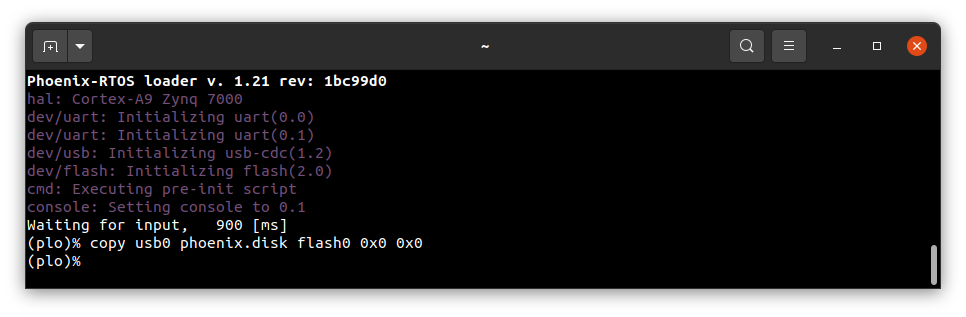
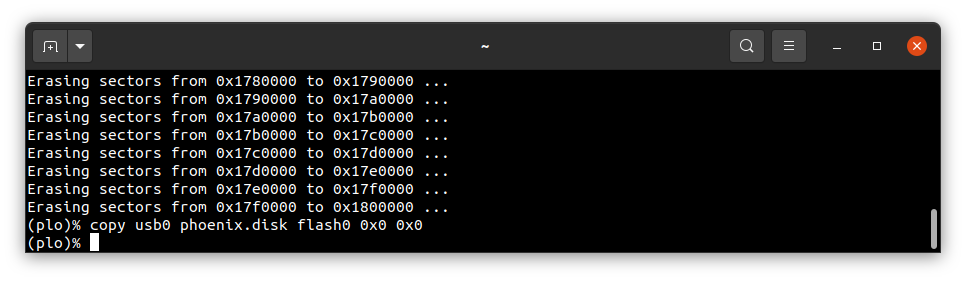
quickstart: update zynq7000-zedboard guide
JIRA: CI-295

Changed region(s): [[0.0, 0.0569, 0.9938, 0.9395], [0.9627, 0.7402, 0.9938, 0.7687], [0.4969, 0.1423, 0.528, 0.1708]]

diff --git a/quickstart/armv7a9-zynq7000-zedboard.md b/quickstart/armv7a9-zynq7000-zedboard.md
@@ -1,23 +1,46 @@
 # Running system on `armv7a9-zynq7000-zedboard` (Xilinx Zynq-7000, Zedboard development board)
 
 These instructions describe how to run a Phoenix-RTOS system image for `armv7a9-zynq7000-zedboard` target architecture.
-Note that, the build artifacts, including the system image, should be first provided in the `_boot` directory. If you haven't run the `build.sh` script yet, run it for `armv7a9-zynq7000-zedboard` target.
+Note that, the build artifacts, including the system image, should be first provided in the `_boot` directory.
+If you haven't run the `build.sh` script yet, run it for `armv7a9-zynq7000-zedboard` target.
 
 See [how to build the Phoenix-RTOS system image](../building/README.md).
 
 ## Preparing the board
 
-- Firstly, you should copy the disk image `phoenix-armv7a9-zynq7000-zedboard.disk` from the `_boot` directory to the SD card and rename it to `BOOT.bin`.
+Preparing the board depends on how the plo is loaded into RAM, this quickstart describes 2 approaches.
+Loading from SD card and from NOR flash, depending on your needs use one of them.
+For example if you are flashing Phoenix-RTOS for a first time, or you want to load a plo from the current system image.
+Otherwise, you can simply use plo from the already flashed image.
+
+### Loading plo from SD card
+
+- Firstly, you should copy the disk image `phoenix.disk`
+ from the `_boot/armv7a9-zynq7000-zedboard` directory to the SD card and rename it to `BOOT.bin`.
 
 - Then, insert the SD card into the board.
 
-- To allow booting from SD card, set the jumpers to the following configuration:
+- To allow booting from SD card, set the jumpers to
+ the following configuration (`JP11`: `110`, `JP10`: `011`, `JP9`: `011`, `JP8`: `110`, `JP7`: `110`):
 
   <img src="_images/zynq7000-sd-boot-mode.jpg" width="400px">
 
-- After that, to provide a power supply for the board, you should connect AC Adapter to the DC socket on the board. For now, leave the `SW8` switch in the `OFF` position.
+### Loading plo from NOR flash
 
-- To communicate with the board you will need to connect the USB cable to the `UART` port (`J14`). The onboard UART-USB converter is used here.
+**This version is possible only if you have already flashed Phoenix-RTOS system image to this board before!**
+
+- To allow loading from NOR flash,
+set the jumpers to the following configuration (`JP11`: `110`, `JP10`: `011`, `JP9`: `110`, `JP8`: `110`, `JP7`: `110`):
+
+  <img src="_images/zynq7000-qspi-boot-mode.jpg" width="400px">
+
+### Loading plo - common steps
+
+- To provide a power supply for the board, you should connect AC Adapter to the DC socket on the board.
+For now, leave the `SW8` switch in the `OFF` position.
+
+- To communicate with the board you will need to connect the USB cable to the `UART` port (`J14`).
+The onboard UART-USB converter is used here.
 
 - You should also connect another micro USB cable to the `USB OTG` port (`J13`).
 
@@ -29,7 +52,7 @@ See [how to build the Phoenix-RTOS system image](../building/README.md).
 
 - Now you should verify, what USB device on your host-pc is connected with the `UART` (console). To check that run:
 
-  ```
+  ```bash
   ls -l /dev/serial/by-id
   ```
 
@@ -37,18 +60,25 @@ See [how to build the Phoenix-RTOS system image](../building/README.md).
 
   If your output is like in the screenshot above, the console (`UART` in the evaluation board) is on the `ACM0` port.
 
-- When the board is connected to your host-pc, open serial port in terminal using picocom and type the console port (in this case ACM0)
+- When the board is connected to your host-pc,
+ open serial port in terminal using picocom and type the console port (in this case ACM0)
 
-  ```
+  ```bash
   picocom -b 115200 --imap lfcrlf /dev/ttyACM0
   ```
 
   <details>
-  <summary>How to get picocom (Ubuntu 20.04)</summary>
+  <summary>How to get picocom and run it without privileges (Ubuntu)</summary>
 
-  ```
+  ```bash
   sudo apt-get update && \
   sudo apt-get install picocom
+  ```
+
+  To use picocom without sudo privileges run this command and then restart:
+
+  ```bash
+  sudo usermod -a -G tty <yourname>
   ```
 
   </details>
@@ -58,48 +88,72 @@ You can leave the terminal with the serial port open, and follow the next steps.
 
 ## Flashing the Phoenix-RTOS system image
 
-The process comes down to a few steps, described below.
+At first before any flashing, you need to enter Phoenix-RTOS loader (plo), which should have been already loaded.
 
-### Uploading a Phoenix-RTOS loader (plo) for the first time
+If there wasn't an older system image in the NOR flash the following output should appear:
 
-The Phoenix-RTOS loader is uploaded to the SD card. When the board is powered on, the following output will appear on the serial port:
+<img src="_images/zynq7000-sd-plo.png" width="700px">
 
-<img src="_images/zynq7000-ram-start.png" width="700px">
+If you don't see it, please press the `PS-RST` button (`BTN7`) to restart the chip.
 
-If you don't see it, please press the `PS-RST` button (`BTN7`), to restart the chip and print initialization logs.
-
-As you can see, plo (Phoenix-RTOS loader) is launched. You can press `enter` to see the prompt.
-
-If You need, You can run Phoenix-RTOS from RAM memory using `go!` command here, but if You want to flash the system image please follow the next steps.
-
-### Entering a Phoenix-RTOS loader (plo) when a system image has been already flashed
-
-If You are flashing the board a second time and some older Phoenix-RTOS image is uploaded to NOR flash memory, You should change boot mode to NOR flash and reset the board (described in `Booting Phoenix-RTOS from NOR flash memory` chapter).
-
-The following output will appear:
+Providing that Phoenix-RTOS is present in the flash memory you will probably see the system startup:
 
 <img src="_images/zynq7000-ram-start-2.png" width="700px">
 
-As you can see, the older Phoenix-RTOS image is now launched, but we need to run plo (Phoenix-RTOS loader). To do that, you should press any button, for example, `enter` within 1 second after reset (using `PS-RST`):
+You want to press the `PS-RST` button (`BTN7`) again and interrupt `Waiting for input` by pressing any key to enter plo:
 
 <img src="_images/zynq7000-plo.png" width="700px">
 
+If you encountered some problems during this step please see
+ [common problems](armv7a9-zynq7000.md#common-problems-on-zynq7000-boards).
+
+### Erasing the area intended for file system
+
+It's needed to erase sectors that will be used by `jffs2` file system as we place in the `phoenix.disk`
+ only the necessary file system content, not the whole area intended for it.
+Without erasure `jffs2` may encounter data from the previous flash operation and errors
+ during the system startup may occur.
+That's why we have to run erase using plo command specific to `jffs2` file system:
+
+```plaintext
+jffs2 -d 2.0 -e -c 0x80:0x100:0x10000:16
+```
+
+Quick description of used arguments:
+
+- `-d 2.0` - regards to the device with the following ID: 2.0, which means it's a flash memory (2) instance nr 0 (0),
+
+- `-e` - erase,
+
+- `-c 0x80:0x100:0x10000:16` - set clean markers
+  - start block: `0x80` (`FS_OFFS`/`BLOCK_SIZE`),
+  - number of blocks: `0x100` (`FS_SZ`/`BLOCK_SIZE`),
+  - block size: `0x10000` (`erase_size`)
+  - clean marker size: `16` (value specific for `jffs2` on `NOR` flash)
+
+<img src="_images/zynq7000-plo-erase.png" width="700px">
+
+Please wait until erasing is finished.
+
 ### Copying flash image using PHFS (phoenixd)
 
-To flash the disk image, first, you need to verify on which port plo USB device has appeared. You can check that using `ls` as follow:
+To flash the disk image, first, you need to verify on which port plo USB device has appeared.
+You can check that using `ls` as follow:
 
-```bash
+```plaintext
 ls -l /dev/serial/by-id
 ```
+
 <img src="_images/zynq7000-ls-2.png" width="700px">
 
-To share disk image to the bootloader, `phoenixd` has to be launched with the following arguments (choose suitable ttyACMx device, in this case, ttyACM1):
+To share disk image to the bootloader, `phoenixd` has to be launched with the following arguments
+ (choose suitable ttyACMx device, in this case, ttyACM1):
 
-```
+```plaintext
 cd _boot/armv7a9-zynq7000-zedboard
 ```
 
-```bash
+```plaintext
 sudo ./phoenixd -p /dev/ttyACM1 -b 115200 -s .
 ```
 
@@ -107,7 +161,7 @@ sudo ./phoenixd -p /dev/ttyACM1 -b 115200 -s .
 
 To start copying the file, write the following command in the console with plo interface:
 
-```bash
+```plaintext
 copy usb0 phoenix.disk flash0 0x0 0x0
 ```
 
@@ -118,9 +172,13 @@ copy usb0 phoenix.disk flash0 0x0 0x0
 Now, the image is located in the NOR Quad SPI Flash memory.
 To run it you should follow the steps below:
 
+*If you have already set the `NOR flash` mode by following instructions from
+ [Loading plo from NOR flash](#loading-plo-from-nor-flash) chapter,
+ you should only follow the last step - press `PS-RST` button.
+
 - Power off the board using `SW8`
 
-- Change jumpers position as follows:
+- Change jumpers position as follows (`JP11`: `110`, `JP10`: `011`, `JP9`: `110`, `JP8`: `110`, `JP7`: `110`):
 
   <img src="_images/zynq7000-qspi-boot-mode.jpg" width="400px">
 
@@ -128,7 +186,7 @@ To run it you should follow the steps below:
 
 - Check which port the console appeared on:
 
-  ```
+  ```bash
   ls -l /dev/serial/by-id/
   ```
 
@@ -136,7 +194,7 @@ To run it you should follow the steps below:
 
 - connect to that port:
 
-  ```
+  ```bash
   picocom -b 115200 --imap lfcrlf /dev/ttyACM0
   ```
 
@@ -144,22 +202,19 @@ To run it you should follow the steps below:
 
   <img src="_images/zynq7000-qspi-start.png" width="700px">
 
-*If You has already set the `NOR flash` mode You can only press `PS-RST` button.
-
 ## Using Phoenix-RTOS
 
 To get the available command list please type:
 
-```
+```plaintext
 help
 ```
 
 <img src="_images/zynq7000-help.png" width="700px">
 
-
 If you want to get the list of working processes please type:
 
-```bash
+```plaintext
 ps
 ```
 
@@ -167,17 +222,15 @@ ps
 
 To get the table of processes please type:
 
-```bash
+```plaintext
 top
 ```
 
 <img src="_images/zynq7000-top.png" width="700px">
 
-
 ## See also
 
-
 1. [Running system on armv7a9-zynq7000](armv7a9-zynq7000.md)
-2. [Running system on armv7a9-zynq7000 on emulator](armv7a9-zynq7000-emu.md)
+2. [Running system on armv7a9-zynq7000 on emulator](armv7a9-zynq7000-qemu.md)
 3. [Running system on targets](README.md)
 4. [Table of Contents](../README.md)

diff --git a/quickstart/armv7a9-zynq7000.md b/quickstart/armv7a9-zynq7000.md
@@ -13,6 +13,20 @@ If you don't have one, you can check the running system for this target architec
 
 - [Running system on `armv7a9-zynq7000-qemu`](armv7a9-zynq7000-qemu.md)
 
+## Common problems on zynq7000 boards
+
+- Phoenix-RTOS loader does not appear:
+  - When booting using SD card: Make sure that a proper `BOOT.bin` file
+  is placed on the card, and it's in a binary format (right click -> properties):
+
+      <img src="_images/zynq7000-problems-file-type.png" width="400px">
+
+  - Try to open picocom for a second time (it could got stuck).
+
+  - Power down a board and try once again (changing boot modes needs restart by power off).
+
+  - When booting using SD card: Make sure that SD card is not broken, you can try to format it by yourself.
+
 ## See also
 
 1. [Running system on targets](README.md)
